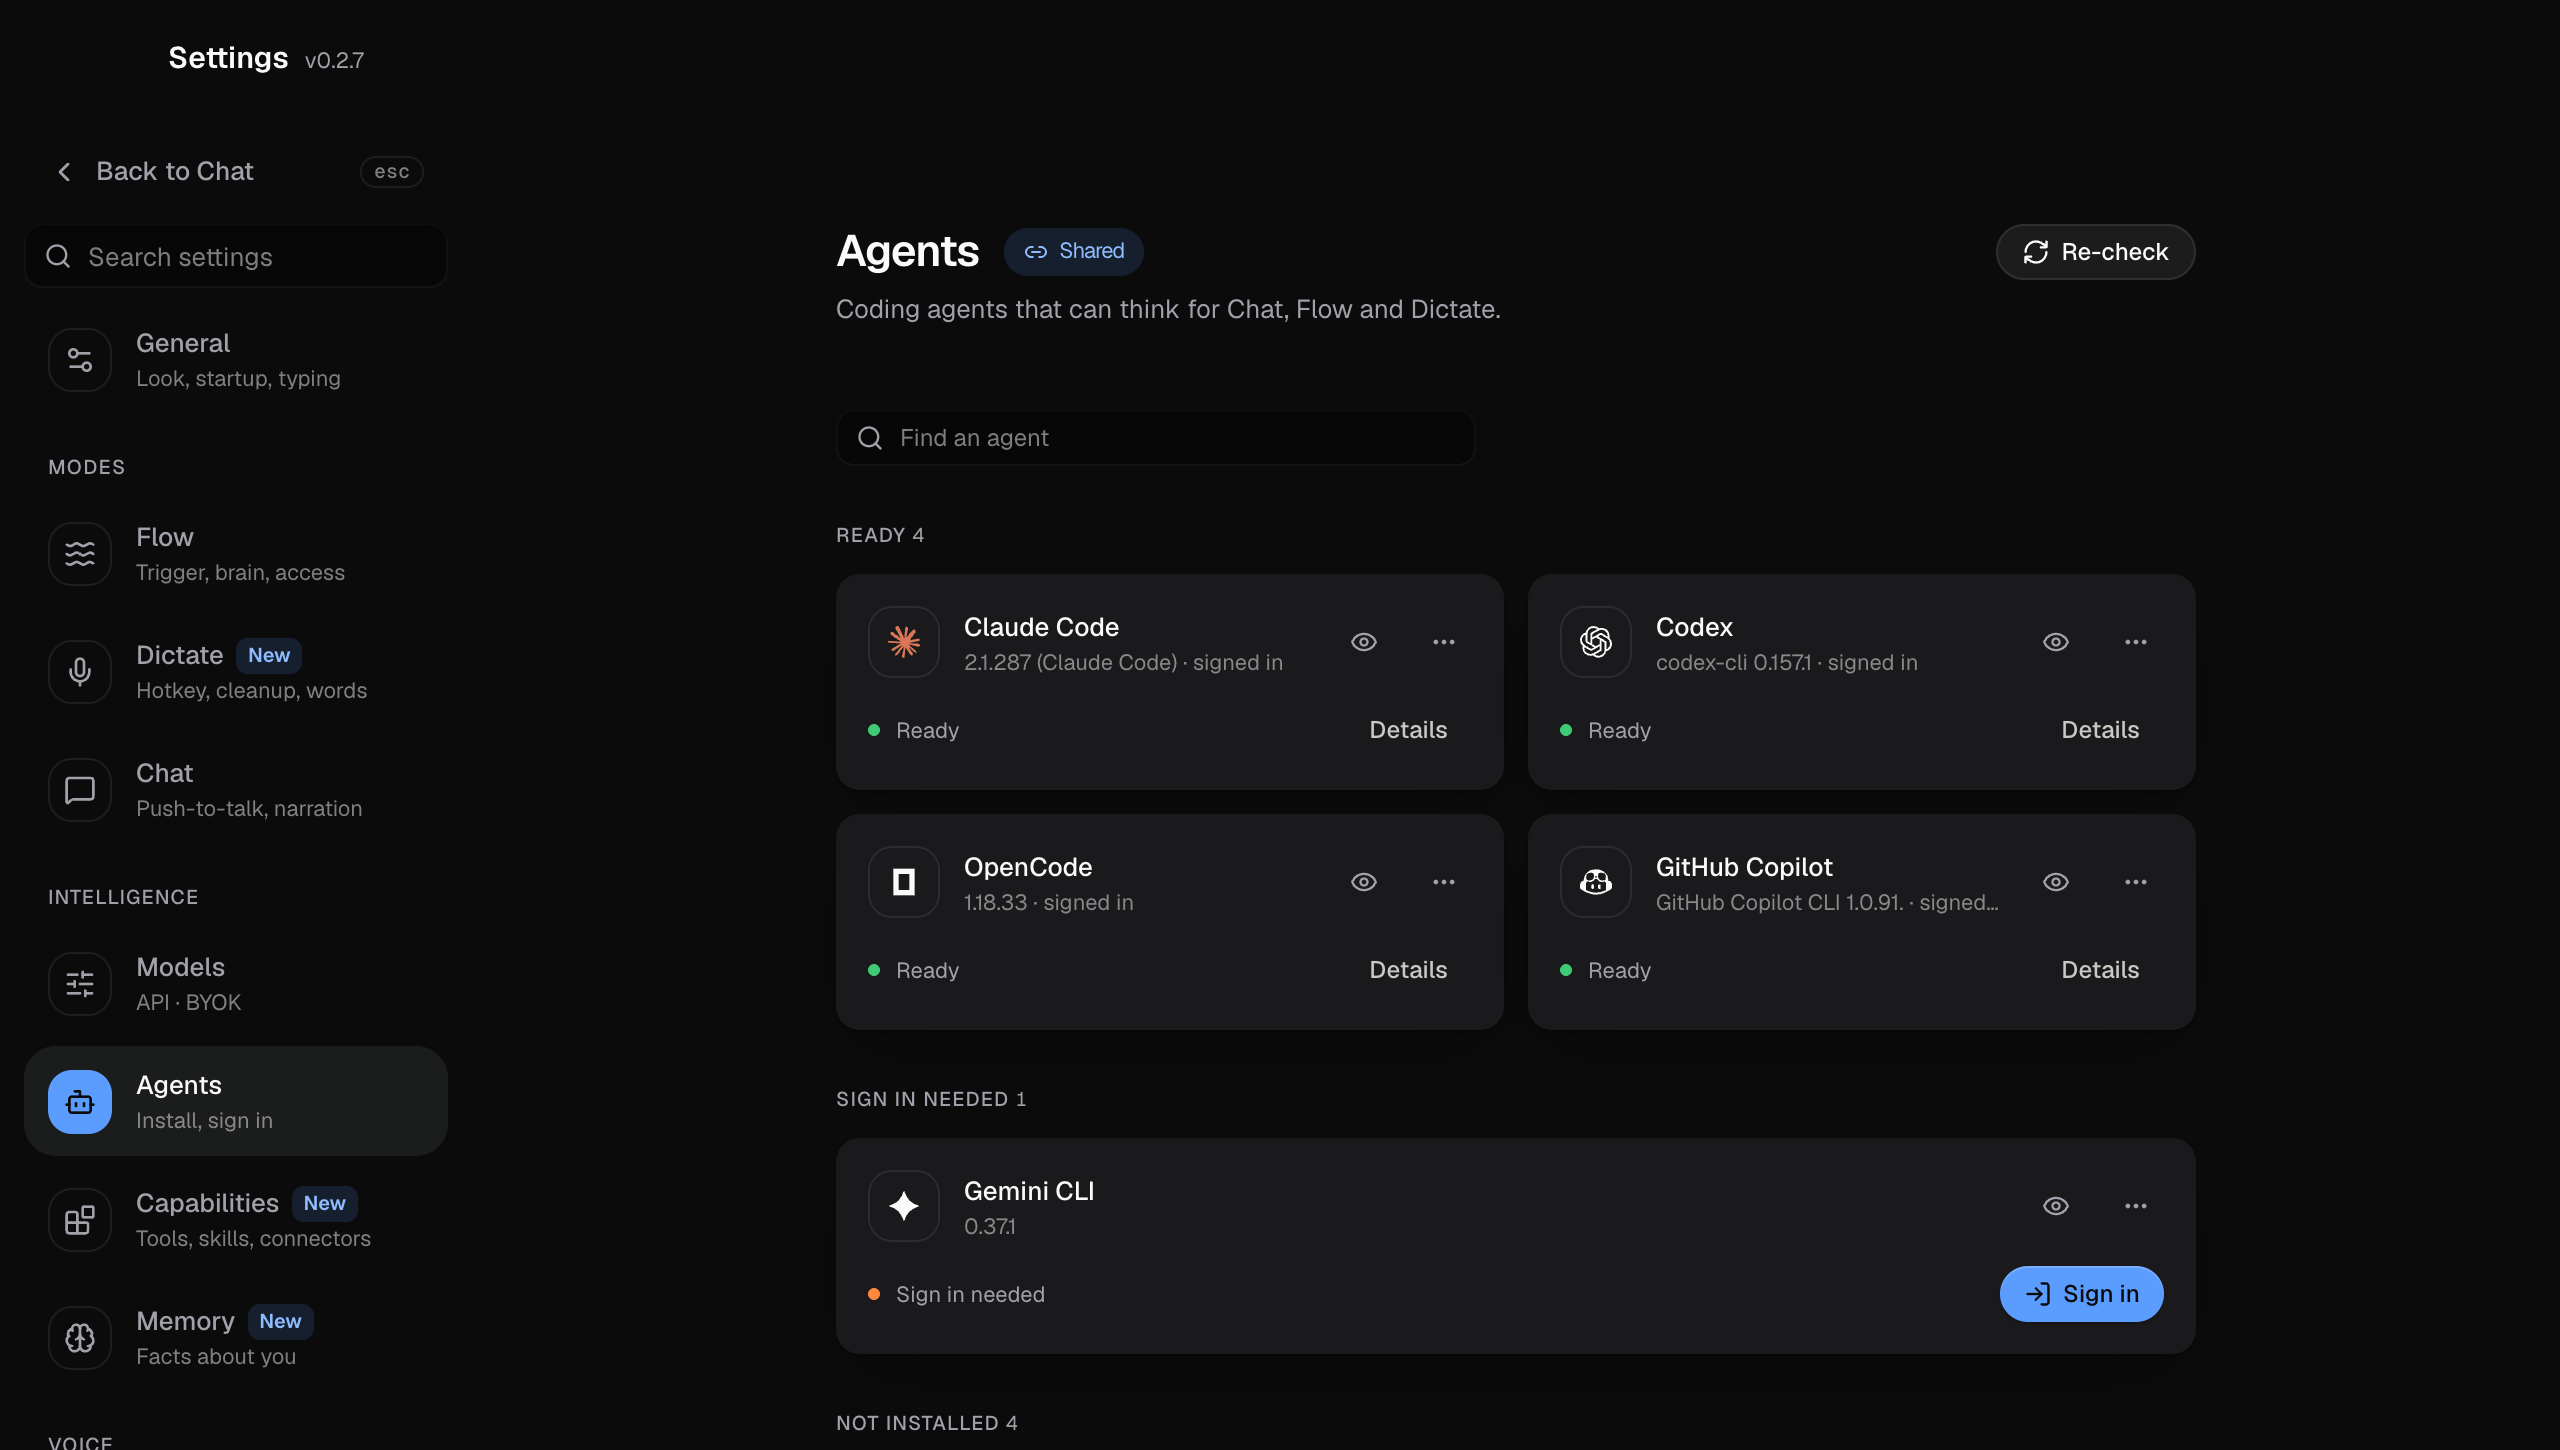
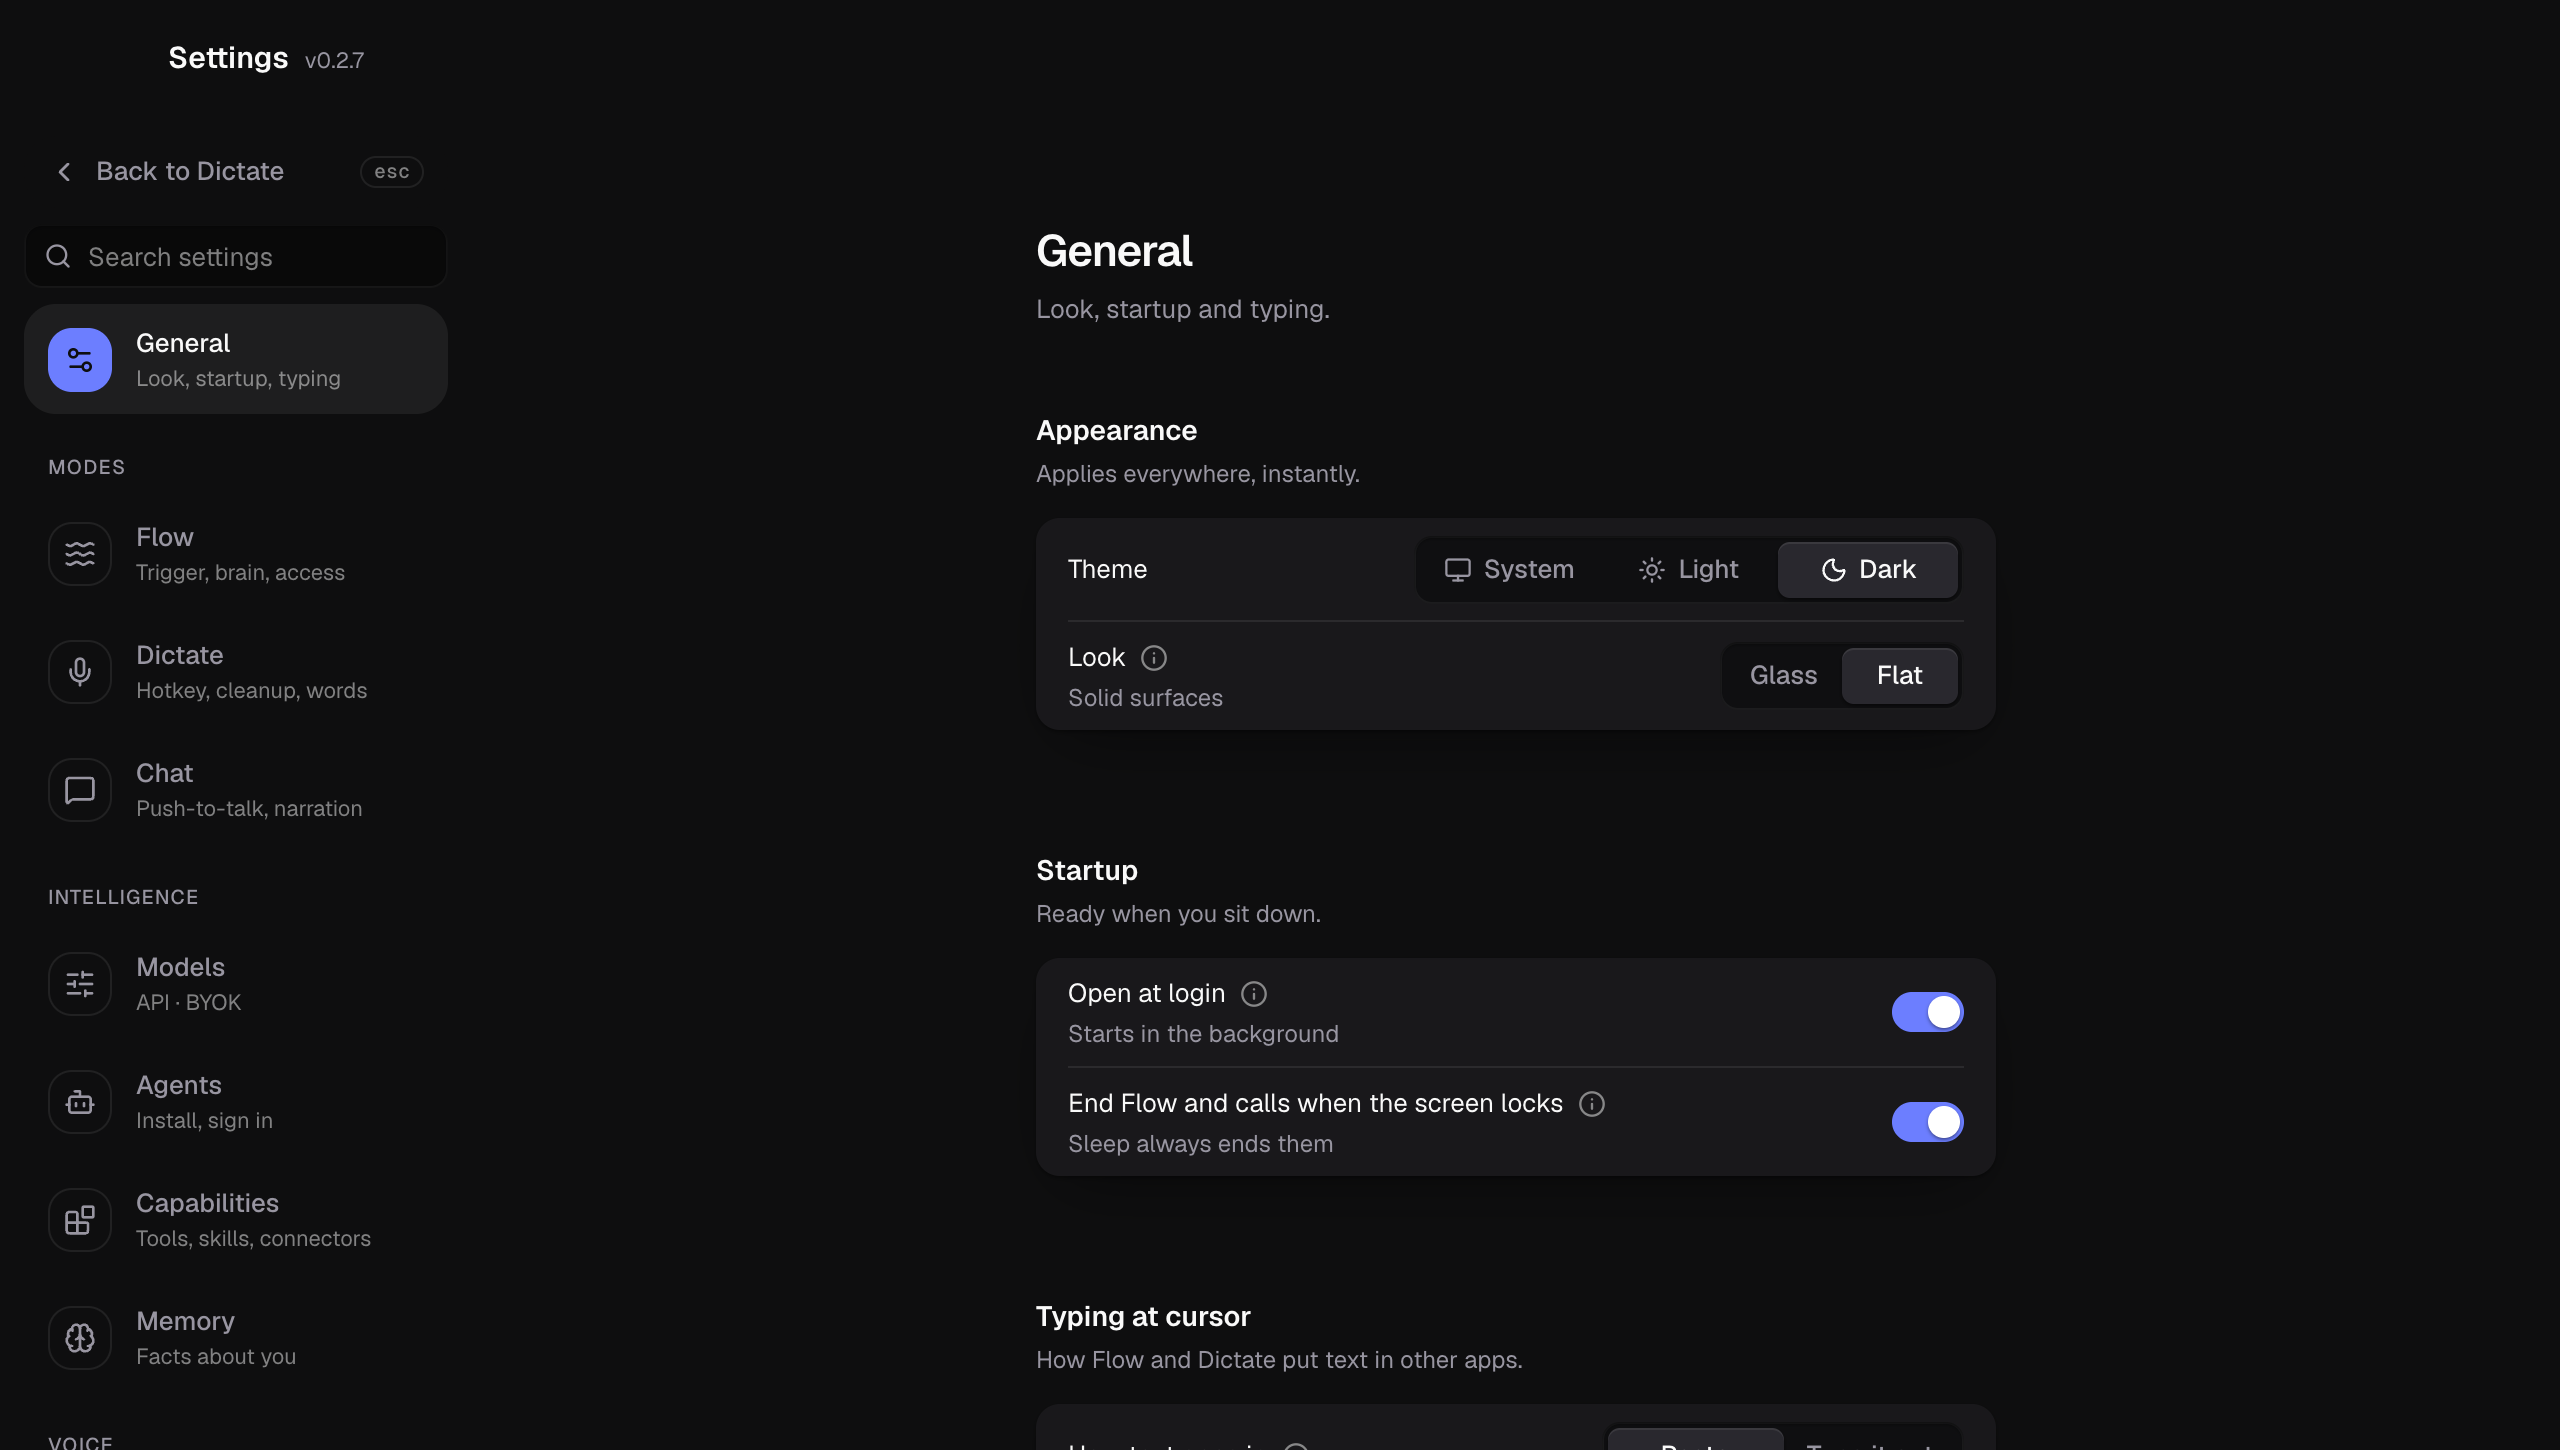
docs: fresh Settings screenshot and a Dictate one, Words and snippets

diff --git a/README.md b/README.md
@@ -189,7 +189,7 @@ Double-tap for hands-free. See [docs/DICTATE.md](docs/DICTATE.md).
 | Home | In a live call |
 |---|---|
 | ![Home](assets/home.png) | ![In a live call](assets/hero.png) |
-| **Pre-call setup** | **Settings — agents** |
+| **Pre-call setup** | **Settings, General** |
 | ![Pre-call setup](assets/lobby.png) | ![Settings](assets/settings.png) |
 | **Clone your voice** | **Flow home** |
 | ![Clone Voice](assets/clone-voice.png) | ![Flow home](assets/flow-home.png) |
@@ -199,6 +199,8 @@ Double-tap for hands-free. See [docs/DICTATE.md](docs/DICTATE.md).
 | ![Flow speaking](assets/flow-orb-speaking.png) | ![Flow hover controls](assets/flow-orb-hover.png) |
 | **A failure card with its fix** | **Settings, Flow** |
 | ![Flow failure card](assets/flow-orb-failure.png) | ![Settings, Flow](assets/flow-settings.png) |
+| **Dictate, words and snippets** | |
+| ![Settings, Dictate, Words](assets/dictate.png) | |
 
 ## Why on-device voice matters
 

diff --git a/docs/DICTATE.md b/docs/DICTATE.md
@@ -190,6 +190,8 @@ what to do, let go.
   hotwords without a model change, and the Whisper pipeline has no prompt
   input, so the dictionary works on the text instead.
 
+![Settings > Dictate > Words](../assets/dictate.png)
+
 ## Spoken commands
 
 Each has its own switch in Settings > Dictate > Commands. A command counts when
